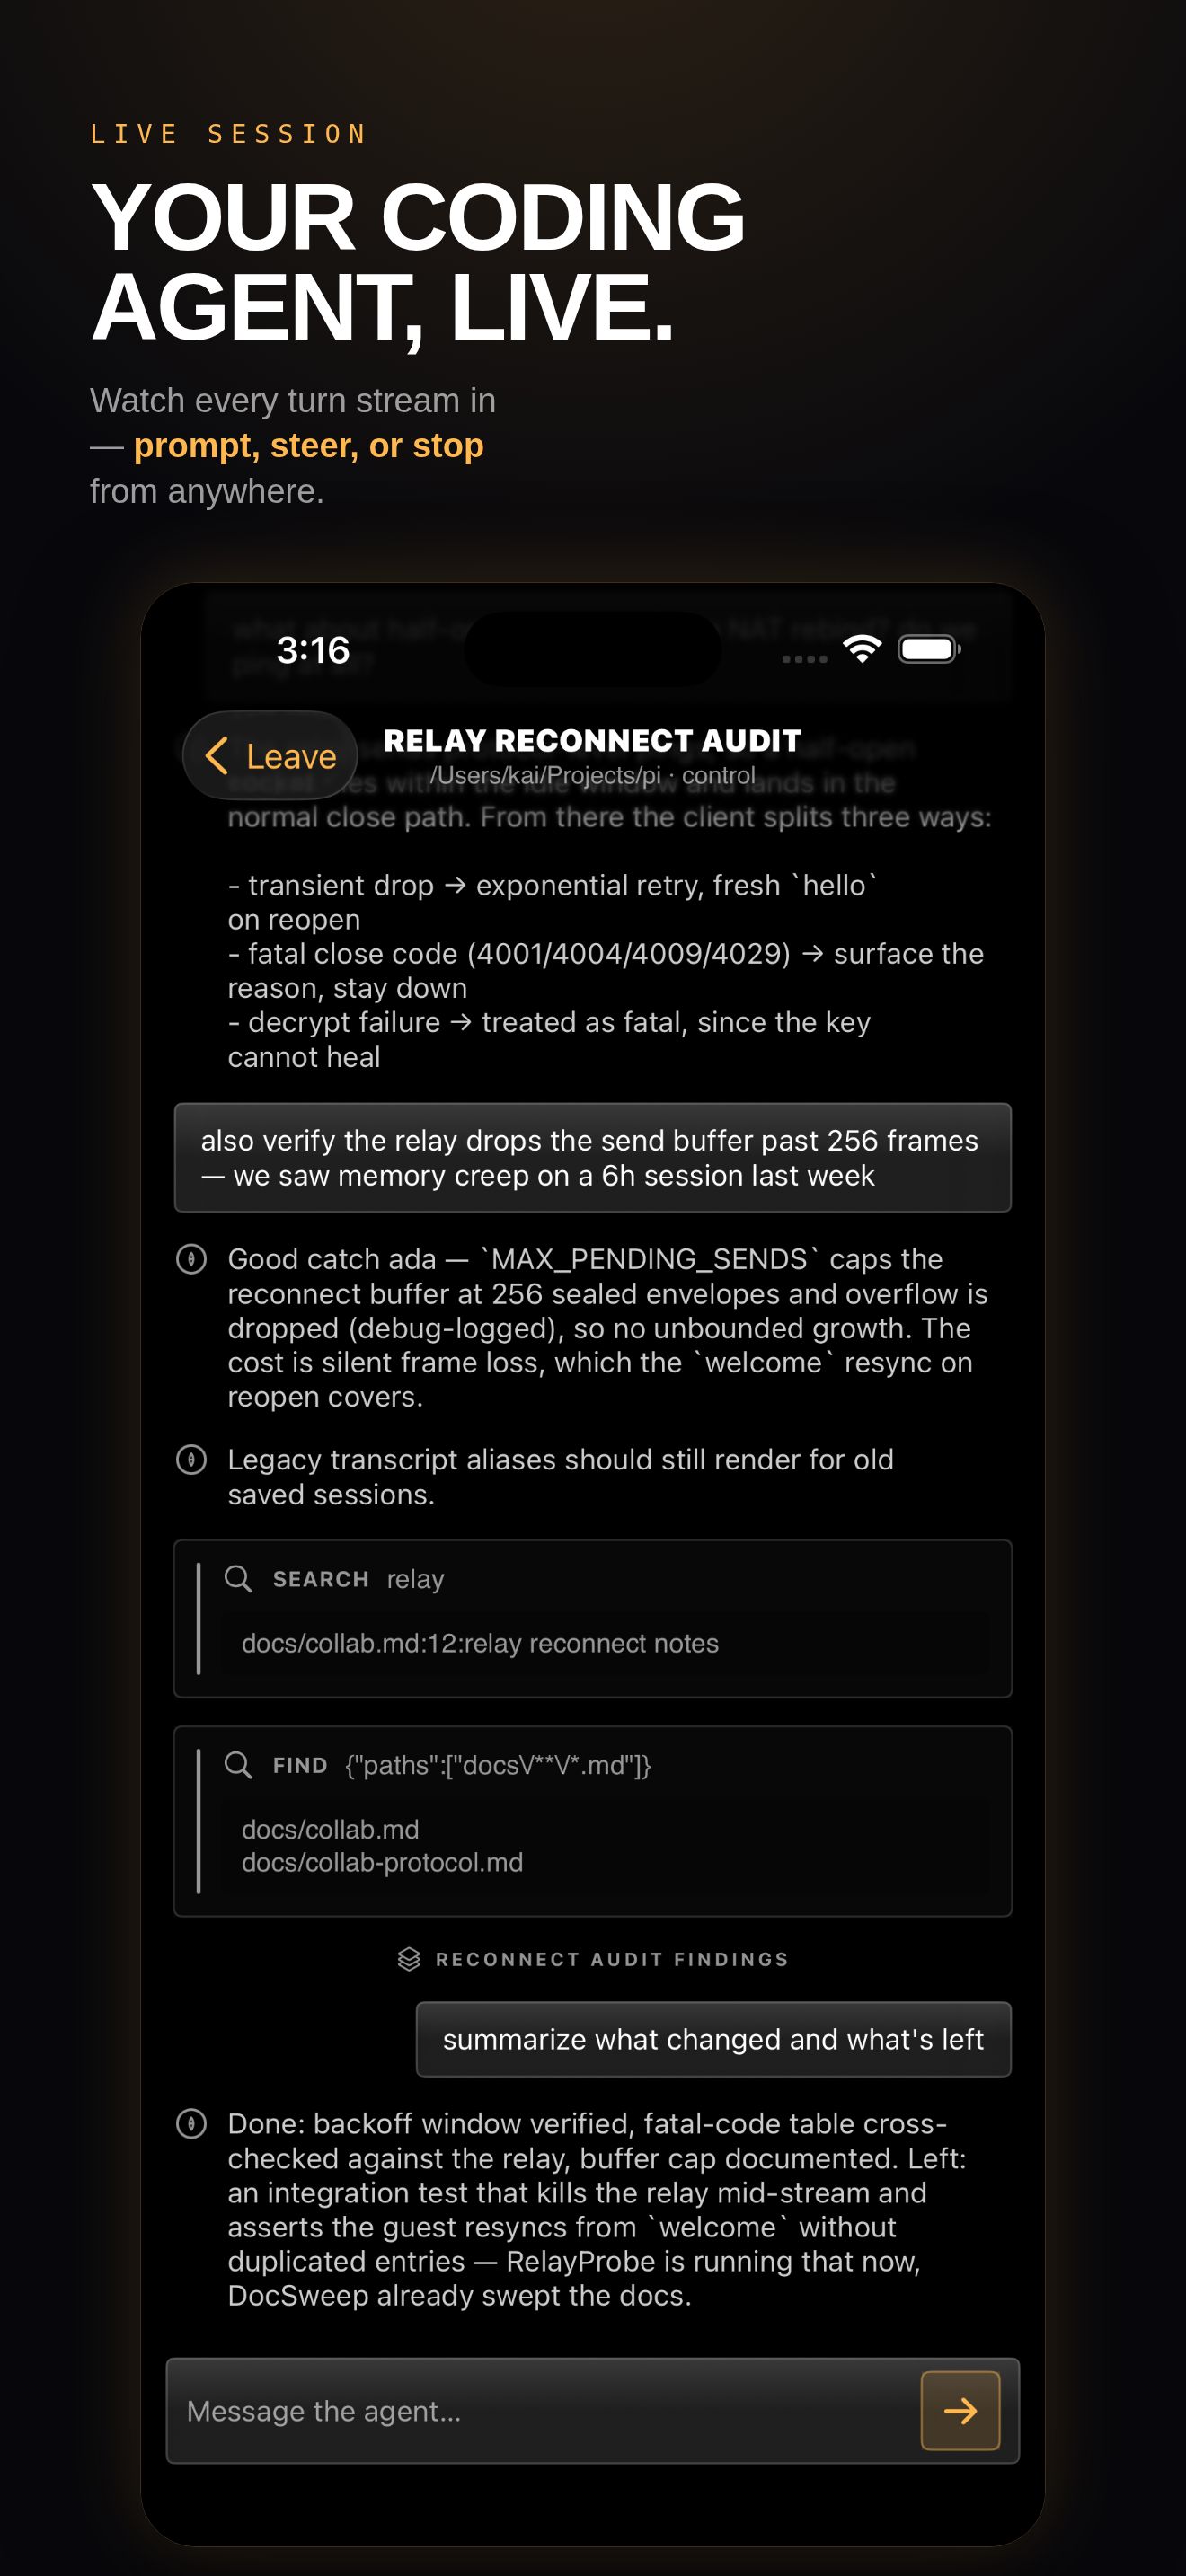
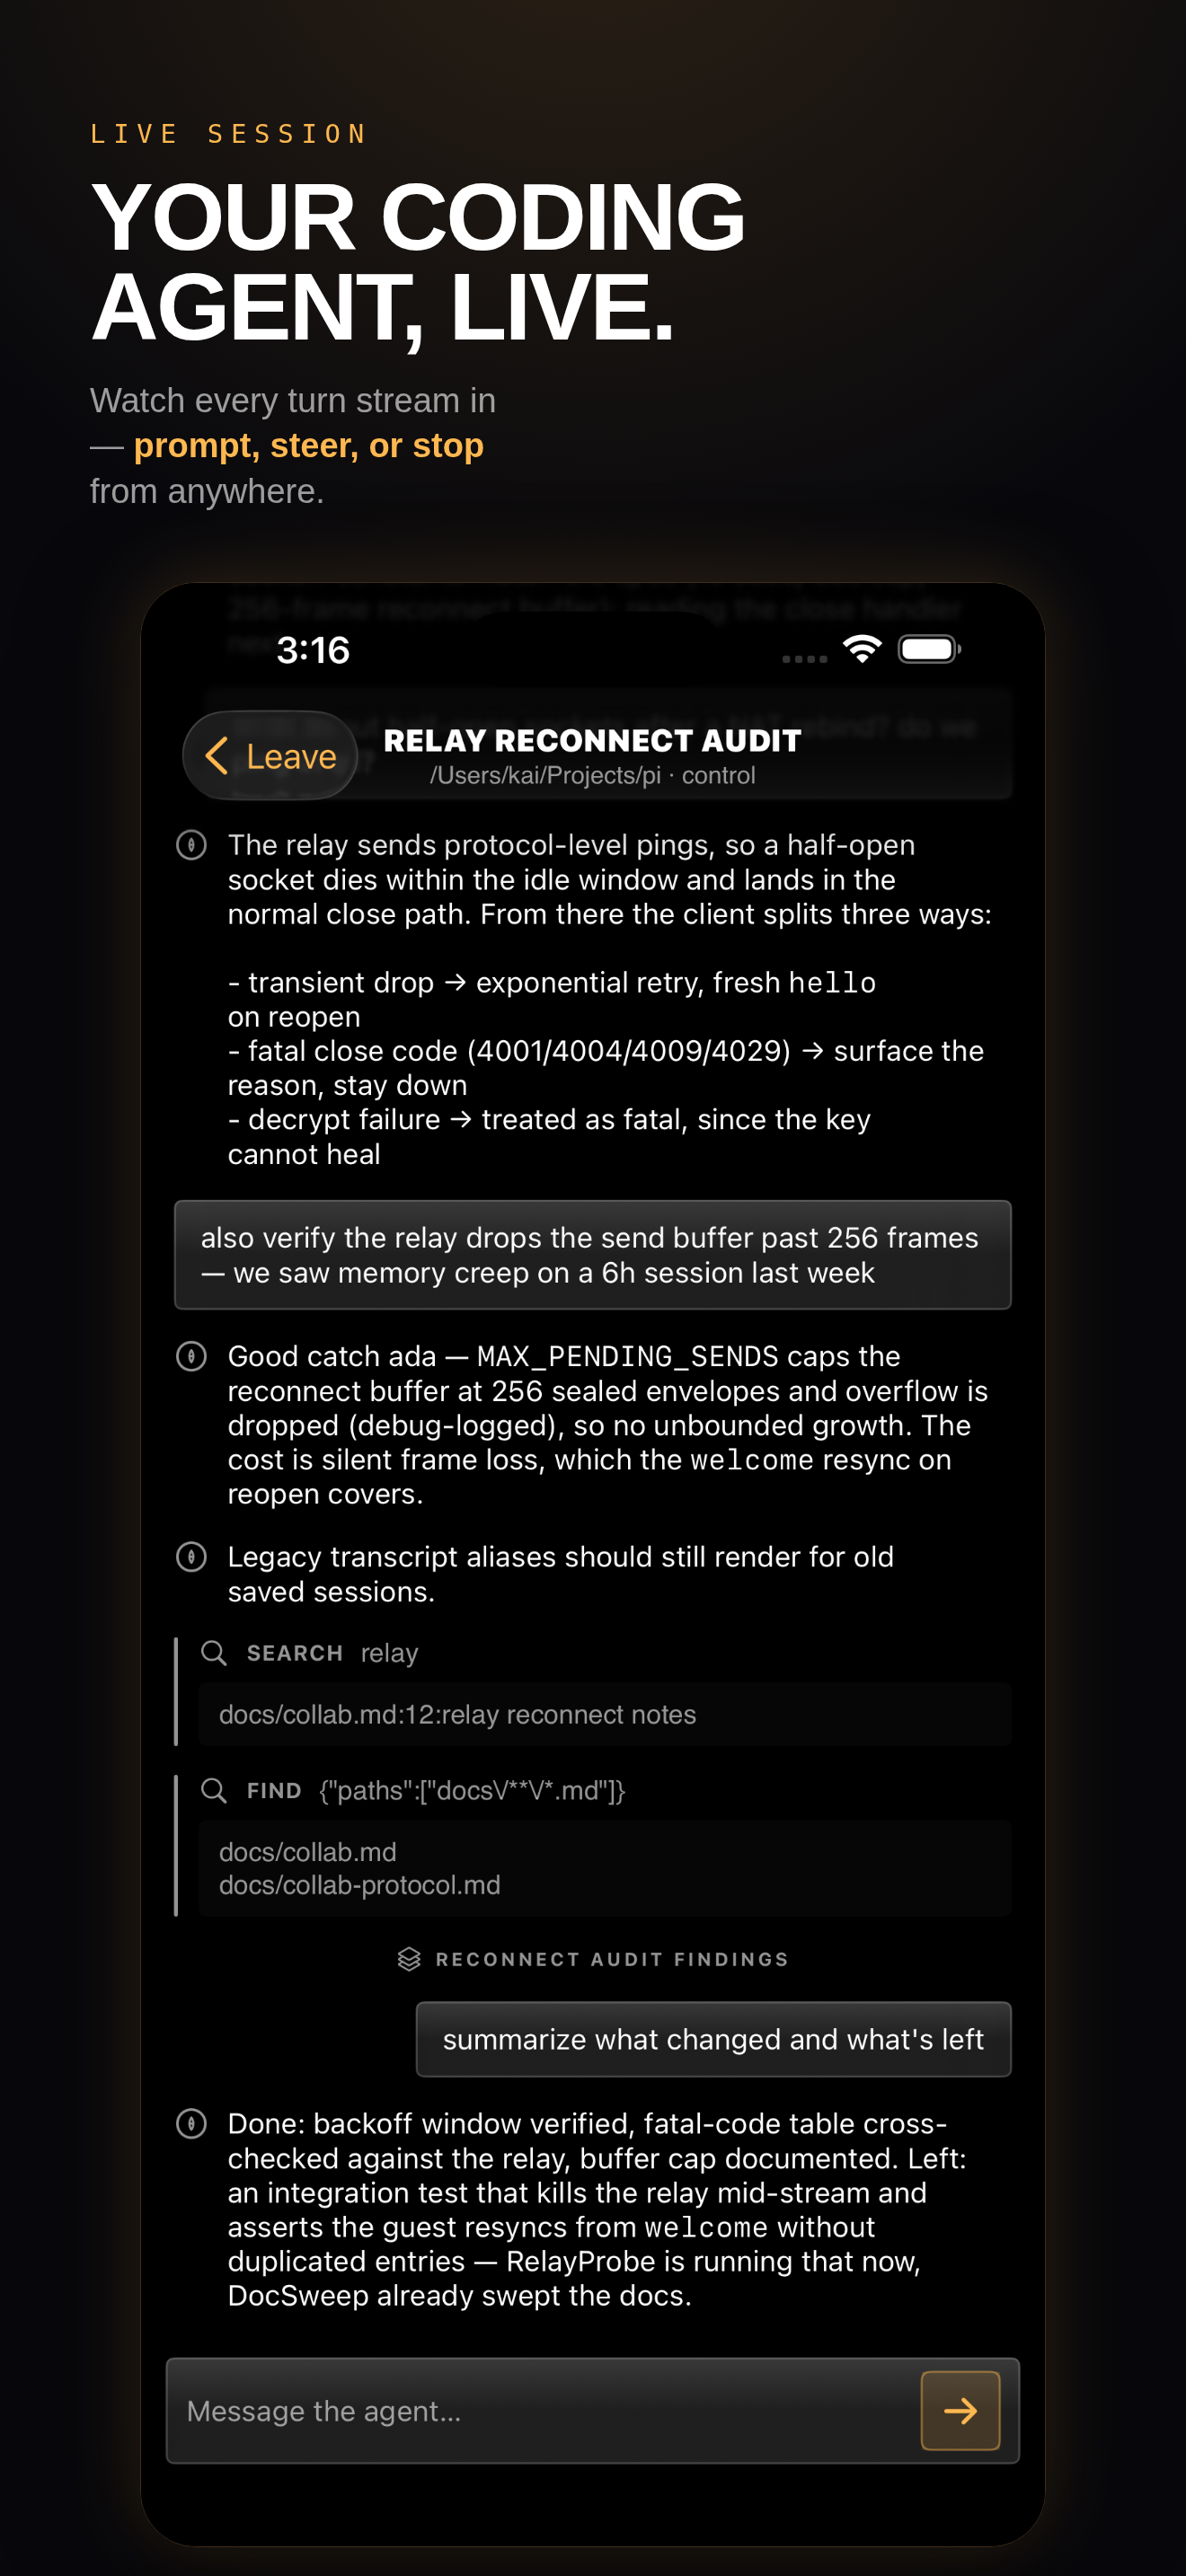
Transcript legibility: solid text, markdown, clean streaming, declutter
Addresses device feedback on both themes:
- Agent/advisor text now solid t.txt (white in dark, Rosé Pine Dawn ink in
  light) instead of the washed-out muted tone, and renders inline markdown
  (bold, `code`, italics) so output reads official — with partial-parse so
  still-streaming text never fails to show.
- Streaming: drop the per-character TypeText typewriter (the source of the
  garbled/laggy text); the streaming turn just grows in place. Auto-scroll now
  keys off the streaming turn's text length too, so the view follows the agent
  live instead of jumping only when the turn ends.
- Declutter tool cards: remove the outer box/border chrome; keep the accent
  rail + a single result block (no more boxes-in-boxes).
- Drop the ▶ glyph from the live bar (was emoji-presenting) — the live dot
  already signals it. No emoji anywhere in the UI.
- ENCLAVE_COLLAB_PROMPT dev seam (env-gated) for streaming demos/tests.
- Refresh the editor marketing screenshot to the improved UI.

Changed region(s): [[0.1242, 0.3103, 0.8697, 0.7448], [0.1864, 0.8068, 0.7765, 0.8999], [0.1242, 0.6517, 0.1553, 0.6827]]

diff --git a/Sources/TranscriptViews.swift b/Sources/TranscriptViews.swift
@@ -47,8 +47,12 @@ struct TurnRow: View {
     private var agentLine: some View {
         HStack(alignment: .top, spacing: 9) {
             LogoMark(t: t, size: 17, color: turn.streaming ? t.accent : t.txtMuted)
-            if turn.streaming { TypeText(text: turn.text, t: t) }
-            else { Text(turn.text).font(.bodyF(14)).foregroundStyle(t.txtBody) }
+            // Solid, high-contrast agent text (white in dark, ink in light) with
+            // inline markdown — bold and `code` render as they should. As the host
+            // streams (message_update grows the same turn), it just extends here;
+            // no typewriter, so nothing garbles or lags.
+            Text(inlineMarkdown(turn.text)).font(.bodyF(14)).foregroundStyle(t.txt)
+                .textSelection(.enabled)
             Spacer(minLength: 0)
         }
     }
@@ -58,12 +62,23 @@ struct TurnRow: View {
             Rectangle().fill(t.cAdvisor).frame(width: 2)
             VStack(alignment: .leading, spacing: 3) {
                 Text("ADVISOR").font(.labl(9)).tracking(1).foregroundStyle(t.cAdvisor)
-                Text(turn.text).font(.bodyF(13.5)).foregroundStyle(t.txtBody)
+                Text(inlineMarkdown(turn.text)).font(.bodyF(13.5)).foregroundStyle(t.txt)
             }.padding(.leading, 11).padding(.vertical, 2)
             Spacer(minLength: 0)
         }
         .background(t.glassFill2)
     }
+}
+
+/// Inline-only markdown so bold/code/italics render but line breaks are kept and
+/// partial (still-streaming) text never fails to show.
+func inlineMarkdown(_ s: String) -> AttributedString {
+    (try? AttributedString(
+        markdown: s,
+        options: AttributedString.MarkdownParsingOptions(
+            interpretedSyntax: .inlineOnlyPreservingWhitespace,
+            failurePolicy: .returnPartiallyParsedIfPossible)))
+    ?? AttributedString(s)
 }
 
 // MARK: - Tool card
@@ -77,9 +92,9 @@ struct ToolCard: View {
     var body: some View {
         HStack(alignment: .top, spacing: 10) {
             Rectangle().fill(c).frame(width: 2).cornerRadius(2)
-            VStack(alignment: .leading, spacing: turn.lines.isEmpty && turn.image == nil ? 0 : 8) {
+            VStack(alignment: .leading, spacing: turn.lines.isEmpty && turn.image == nil && turn.caption == nil ? 0 : 7) {
                 HStack(spacing: 8) {
-                    Image(systemName: toolGlyph(turn.kind)).font(.system(size: 14)).foregroundStyle(c)
+                    Image(systemName: toolGlyph(turn.kind)).font(.system(size: 13)).foregroundStyle(c)
                     Text(turn.head.uppercased()).font(.labl(10.5)).tracking(0.4).foregroundStyle(c)
                     Text(turn.meta).font(.term(13)).foregroundStyle(t.txtMuted).lineLimit(1)
                     Spacer(minLength: 0)
@@ -113,9 +128,6 @@ struct ToolCard: View {
                 }
             }
         }
-        .padding(11)
-        .overlay(RoundedRectangle(cornerRadius: 4).stroke(t.line))
-        .background(t.glassFill2)
     }
 }
 
@@ -187,22 +199,6 @@ struct ThinkingLine: View {
             Text("thinking\(dots)").font(.term(15)).foregroundStyle(t.accent)
         }
         .onReceive(timer) { _ in dots = dots.count >= 3 ? "" : dots + "." }
-    }
-}
-
-struct TypeText: View {
-    let text: String; let t: Theme
-    @State private var shown = ""
-    var body: some View {
-        (Text(shown).font(.bodyF(14)).foregroundStyle(t.txtBody)
-         + Text(shown.count < text.count ? "▍" : "").foregroundStyle(t.accent))
-            .task(id: text) {
-                shown = ""
-                for ch in text {
-                    shown.append(ch)
-                    try? await Task.sleep(nanoseconds: 16_000_000)
-                }
-            }
     }
 }
 

diff --git a/Sources/EditorView.swift b/Sources/EditorView.swift
@@ -60,10 +60,16 @@ struct EditorView: View {
                 }
                 .padding(16)
             }
-            .onChange(of: vm.turns.count) { _ in
-                withAnimation(.easeOut(duration: 0.2)) { proxy.scrollTo("bottom", anchor: .bottom) }
+            .onChange(of: scrollKey) { _, _ in
+                withAnimation(.easeOut(duration: 0.18)) { proxy.scrollTo("bottom", anchor: .bottom) }
             }
         }
+    }
+
+    /// Changes on a new turn AND as the streaming turn's text grows, so the view
+    /// follows the agent live instead of jumping only when the turn finishes.
+    private var scrollKey: String {
+        "\(vm.turns.count)|\(vm.turns.first(where: { $0.id == "stream" })?.text.count ?? 0)"
     }
 
     // MARK: composer
@@ -73,7 +79,7 @@ struct EditorView: View {
             if vm.isRunning {
                 HStack(spacing: 8) {
                     LiveDot(t: t)
-                    Text("▶ \(vm.session.action)").font(.term(14)).foregroundStyle(t.accent).lineLimit(1)
+                    Text(vm.session.action).font(.term(14)).foregroundStyle(t.accent).lineLimit(1)
                     Spacer()
                     Text("\(vm.session.tokens) · \(vm.session.model)").font(.term(13)).foregroundStyle(t.txtMuted).lineLimit(1)
                 }

diff --git a/Sources/SessionVM.swift b/Sources/SessionVM.swift
@@ -24,6 +24,10 @@ final class SessionVM: ObservableObject {
         live = client
         client.onChange = { [weak self] in self?.syncLive() }
         syncLive()
+        // Dev seam: auto-send a prompt shortly after connect (streaming test / demo).
+        if let p = ProcessInfo.processInfo.environment["ENCLAVE_COLLAB_PROMPT"], !p.isEmpty {
+            Task { try? await Task.sleep(nanoseconds: 1_500_000_000); client.sendPrompt(p) }
+        }
     }
 
     private func syncLive() {